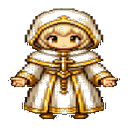
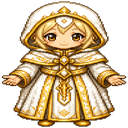
Use owned idle bodies in GEAR and refresh four class silhouettes.
Kenney paper-doll previews looked broken in the equip panel; GEAR now shows denser custom idle art while gear stays in slot icons. Adds import helper for new body_idle PNGs.

diff --git a/lib/ui/hero_doll_sprite.dart b/lib/ui/hero_doll_sprite.dart
@@ -3,19 +3,17 @@ import 'dart:ui' as ui;
 import 'package:flutter/material.dart';
 
 import '../models/hero.dart';
-import '../visual/anchor_table.dart';
 import '../visual/body_family.dart';
-import '../visual/character_visual_painter.dart';
 import '../visual/hero_anim_state.dart';
 import 'decoded_image_cache.dart';
-import 'hero_paper_doll.dart';
 import 'kenney_assets.dart';
 import 'kenney_sprite.dart';
 
-/// GEAR / HUD hero preview: denser owned body + anchored gear overlays.
+/// GEAR / party HUD preview: owned denser body (`assets/custom/char/`).
 ///
-/// Falls back to class PNG (+ overlays when atlas is ready), then plain
-/// [KenneySprite] if decode fails.
+/// Gear slots around the doll show what is equipped — the body is the class
+/// silhouette only (no Kenney overlay junk). Dungeon combat uses the same
+/// families with walk/attack clips in [SpatialDungeonView].
 class HeroDollSprite extends StatefulWidget {
   const HeroDollSprite({
     super.key,
@@ -29,7 +27,7 @@ class HeroDollSprite extends StatefulWidget {
   final int partyIndex;
   final double size;
 
-  /// Reserved for future walk-frame previews (dungeon HUD idle for now).
+  /// Reserved for future walk-frame previews (idle in GEAR for now).
   final int walkFrame;
 
   @override
@@ -38,8 +36,6 @@ class HeroDollSprite extends StatefulWidget {
 
 class _HeroDollSpriteState extends State<HeroDollSprite> {
   ui.Image? _body;
-  ui.Image? _fallback;
-  ui.Image? _atlas;
   String? _fallbackPath;
   int _loadGen = 0;
 
@@ -72,67 +68,40 @@ class _HeroDollSpriteState extends State<HeroDollSprite> {
     final gen = ++_loadGen;
     final bodyPath =
         BodyFamilyCatalog.assetFor(widget.hero, HeroAnimKind.idle);
-    final fallbackPath = KenneyAssets.heroSpriteForSpec(widget.hero.specId);
+    _fallbackPath = KenneyAssets.heroSpriteForSpec(widget.hero.specId);
     final decodeW = (widget.size * 3).ceil().clamp(64, 256);
 
     ui.Image? body;
-    ui.Image? fallback;
-    ui.Image? atlas;
     try {
       body = await DecodedImageCache.load(bodyPath, targetWidth: decodeW);
     } catch (_) {}
-    try {
-      fallback =
-          await DecodedImageCache.load(fallbackPath, targetWidth: decodeW);
-    } catch (_) {}
-    try {
-      atlas = await DecodedImageCache.load(RoguelikeCharAtlas.assetPath);
-    } catch (_) {}
 
     if (!mounted || gen != _loadGen) return;
-    setState(() {
-      _body = body;
-      _fallback = fallback;
-      _atlas = atlas;
-      _fallbackPath = fallbackPath;
-    });
+    setState(() => _body = body);
   }
 
   @override
   Widget build(BuildContext context) {
     final alive = widget.hero.currentHp > 0;
     final body = _body;
-    final atlas = _atlas;
-    final fallback = _fallback;
 
     Widget child;
-    if (body != null || (fallback != null && atlas != null)) {
+    if (body != null) {
       child = CustomPaint(
         size: Size.square(widget.size),
-        painter: _HeroDollPainter(
-          body: body,
-          fallback: body == null ? fallback : null,
-          atlas: atlas,
-          hero: widget.hero,
-          partyIndex: widget.partyIndex,
-          tint: body == null
-              ? KenneyAssets.heroTintForSpec(widget.hero.specId)
-              : null,
-        ),
+        painter: _OwnedBodyPainter(body: body),
       );
     } else {
-      // Still loading or decode failed — plain class PNG.
-      final asset = _fallbackPath ??
-          KenneyAssets.heroSpriteForSpec(widget.hero.specId);
+      final asset =
+          _fallbackPath ?? KenneyAssets.heroSpriteForSpec(widget.hero.specId);
       final tint = KenneyAssets.heroTintForSpec(widget.hero.specId);
-      Widget sprite = KenneySprite(asset: asset, size: widget.size);
+      child = KenneySprite(asset: asset, size: widget.size);
       if (tint != null) {
-        sprite = ColorFiltered(
+        child = ColorFiltered(
           colorFilter: ColorFilter.mode(tint, BlendMode.modulate),
-          child: sprite,
+          child: child,
         );
       }
-      child = sprite;
     }
 
     return SizedBox(
@@ -143,74 +112,26 @@ class _HeroDollSpriteState extends State<HeroDollSprite> {
   }
 }
 
-class _HeroDollPainter extends CustomPainter {
-  _HeroDollPainter({
-    required this.body,
-    required this.fallback,
-    required this.atlas,
-    required this.hero,
-    required this.partyIndex,
-    required this.tint,
-  });
+class _OwnedBodyPainter extends CustomPainter {
+  const _OwnedBodyPainter({required this.body});
 
-  final ui.Image? body;
-  final ui.Image? fallback;
-  final ui.Image? atlas;
-  final PartyHero hero;
-  final int partyIndex;
-  final Color? tint;
+  final ui.Image body;
 
   @override
   void paint(Canvas canvas, Size size) {
     final center = Offset(size.width / 2, size.height / 2);
     final drawSize = size.shortestSide;
-    final img = body ?? fallback;
-    if (img != null) {
-      final paint = Paint()
+    canvas.drawImageRect(
+      body,
+      Rect.fromLTWH(0, 0, body.width.toDouble(), body.height.toDouble()),
+      Rect.fromCenter(center: center, width: drawSize, height: drawSize),
+      Paint()
         ..filterQuality = FilterQuality.none
-        ..isAntiAlias = false;
-      if (tint != null) {
-        paint.colorFilter = ColorFilter.mode(tint!, BlendMode.modulate);
-      }
-      final dst = Rect.fromCenter(
-        center: center,
-        width: drawSize,
-        height: drawSize,
-      );
-      canvas.drawImageRect(
-        img,
-        Rect.fromLTWH(0, 0, img.width.toDouble(), img.height.toDouble()),
-        dst,
-        paint,
-      );
-    }
-
-    final a = atlas;
-    if (a != null) {
-      CharacterVisualPainter.paintGearOverlays(
-        canvas,
-        a,
-        center,
-        drawSize,
-        hero: hero,
-        signals: const HeroAnimSignals(),
-        partyIndex: partyIndex,
-        cacheId: 'gear_preview_${hero.id}',
-        anchorProfile: BodyAnchorProfile.owned,
-      );
-    } else if (img == null) {
-      // Absolute last resort: full Kenney doll if somehow nothing loaded.
-    }
+        ..isAntiAlias = false,
+    );
   }
 
   @override
-  bool shouldRepaint(covariant _HeroDollPainter oldDelegate) {
-    return !identical(body, oldDelegate.body) ||
-        !identical(fallback, oldDelegate.fallback) ||
-        !identical(atlas, oldDelegate.atlas) ||
-        hero.id != oldDelegate.hero.id ||
-        tint != oldDelegate.tint ||
-        partyIndex != oldDelegate.partyIndex ||
-        hero.equipped.length != oldDelegate.hero.equipped.length;
-  }
+  bool shouldRepaint(covariant _OwnedBodyPainter oldDelegate) =>
+      !identical(body, oldDelegate.body);
 }

diff --git a/tool/import_gen_bodies.py b/tool/import_gen_bodies.py
@@ -1,0 +1,56 @@
+"""Import AI-generated idle sprites into assets/custom/char/*/body_idle.png."""
+from __future__ import annotations
+
+from pathlib import Path
+
+from PIL import Image
+
+ROOT = Path(__file__).resolve().parents[1]
+
+PAIRS = (
+    ("assets/warrior_idle_gen.png", "assets/custom/char/warrior/body_idle.png"),
+    ("assets/healer_idle_gen.png", "assets/custom/char/healer/body_idle.png"),
+    ("assets/mage_idle_gen.png", "assets/custom/char/mage/body_idle.png"),
+    ("assets/rogue_idle_gen.png", "assets/custom/char/rogue/body_idle.png"),
+)
+
+
+def strip_checkerboard(im: Image.Image) -> Image.Image:
+    im = im.convert("RGBA")
+    px = im.load()
+    w, h = im.size
+    for y in range(h):
+        for x in range(w):
+            r, g, b, _a = px[x, y]
+            if r > 228 and g > 228 and b > 228:
+                px[x, y] = (0, 0, 0, 0)
+            elif 150 <= r <= 215 and 150 <= g <= 215 and 150 <= b <= 215:
+                px[x, y] = (0, 0, 0, 0)
+    return im
+
+
+def to_body_idle(src: Path, dst: Path) -> None:
+    im = strip_checkerboard(Image.open(src))
+    bbox = im.getbbox()
+    if bbox:
+        im = im.crop(bbox)
+    pad = 8
+    canvas = Image.new(
+        "RGBA",
+        (im.width + pad * 2, im.height + pad * 2),
+        (0, 0, 0, 0),
+    )
+    canvas.paste(im, (pad, pad), im)
+    canvas = canvas.resize((128, 128), Image.Resampling.LANCZOS)
+    dst.parent.mkdir(parents=True, exist_ok=True)
+    canvas.save(dst, optimize=True)
+    print(dst.relative_to(ROOT), canvas.size)
+
+
+def main() -> None:
+    for src_rel, dst_rel in PAIRS:
+        to_body_idle(ROOT / src_rel, ROOT / dst_rel)
+
+
+if __name__ == "__main__":
+    main()

diff --git a/docs/CHARACTER_VISUALS.md b/docs/CHARACTER_VISUALS.md
@@ -6,8 +6,8 @@ Idle Party heroes use a **Phase 3 denser body** path when available:
 2. **Anchored gear overlays** (helm / weapon / shield) from `visualSetId`.
 3. Fallback: class PNG → full Kenney paper-doll.
 
-Used in **dungeon** (`spatial_dungeon_view`) and **GEAR / party HUD**
-(`HeroDollSprite`).
+Used in **dungeon** (`spatial_dungeon_view`, denser owned bodies) and **GEAR /
+party HUD** (`HeroDollSprite` → same owned idle body; gear shown in slots).
 
 Not one PNG per class×weapon.
 
@@ -58,8 +58,7 @@ Pose layers cached per hero id until equip/anim/flip changes.
 
 ## Manual A56 checks
 
-- Denser bodies show for warrior/healer/mage/rogue affinities.
-- Kenney gear overlays stay off for denser bodies (baked silhouette); class-PNG
-  hybrid still gets helm/weapon/shield overlays.
-- Flip when the party faces left.
+- Denser bodies show in dungeon for warrior/healer/mage/rogue affinities.
+- **GEAR** doll: owned denser idle body (class silhouette); slots show gear.
+- Flip when the party faces left (dungeon).
 - Enemies still use prior art.
